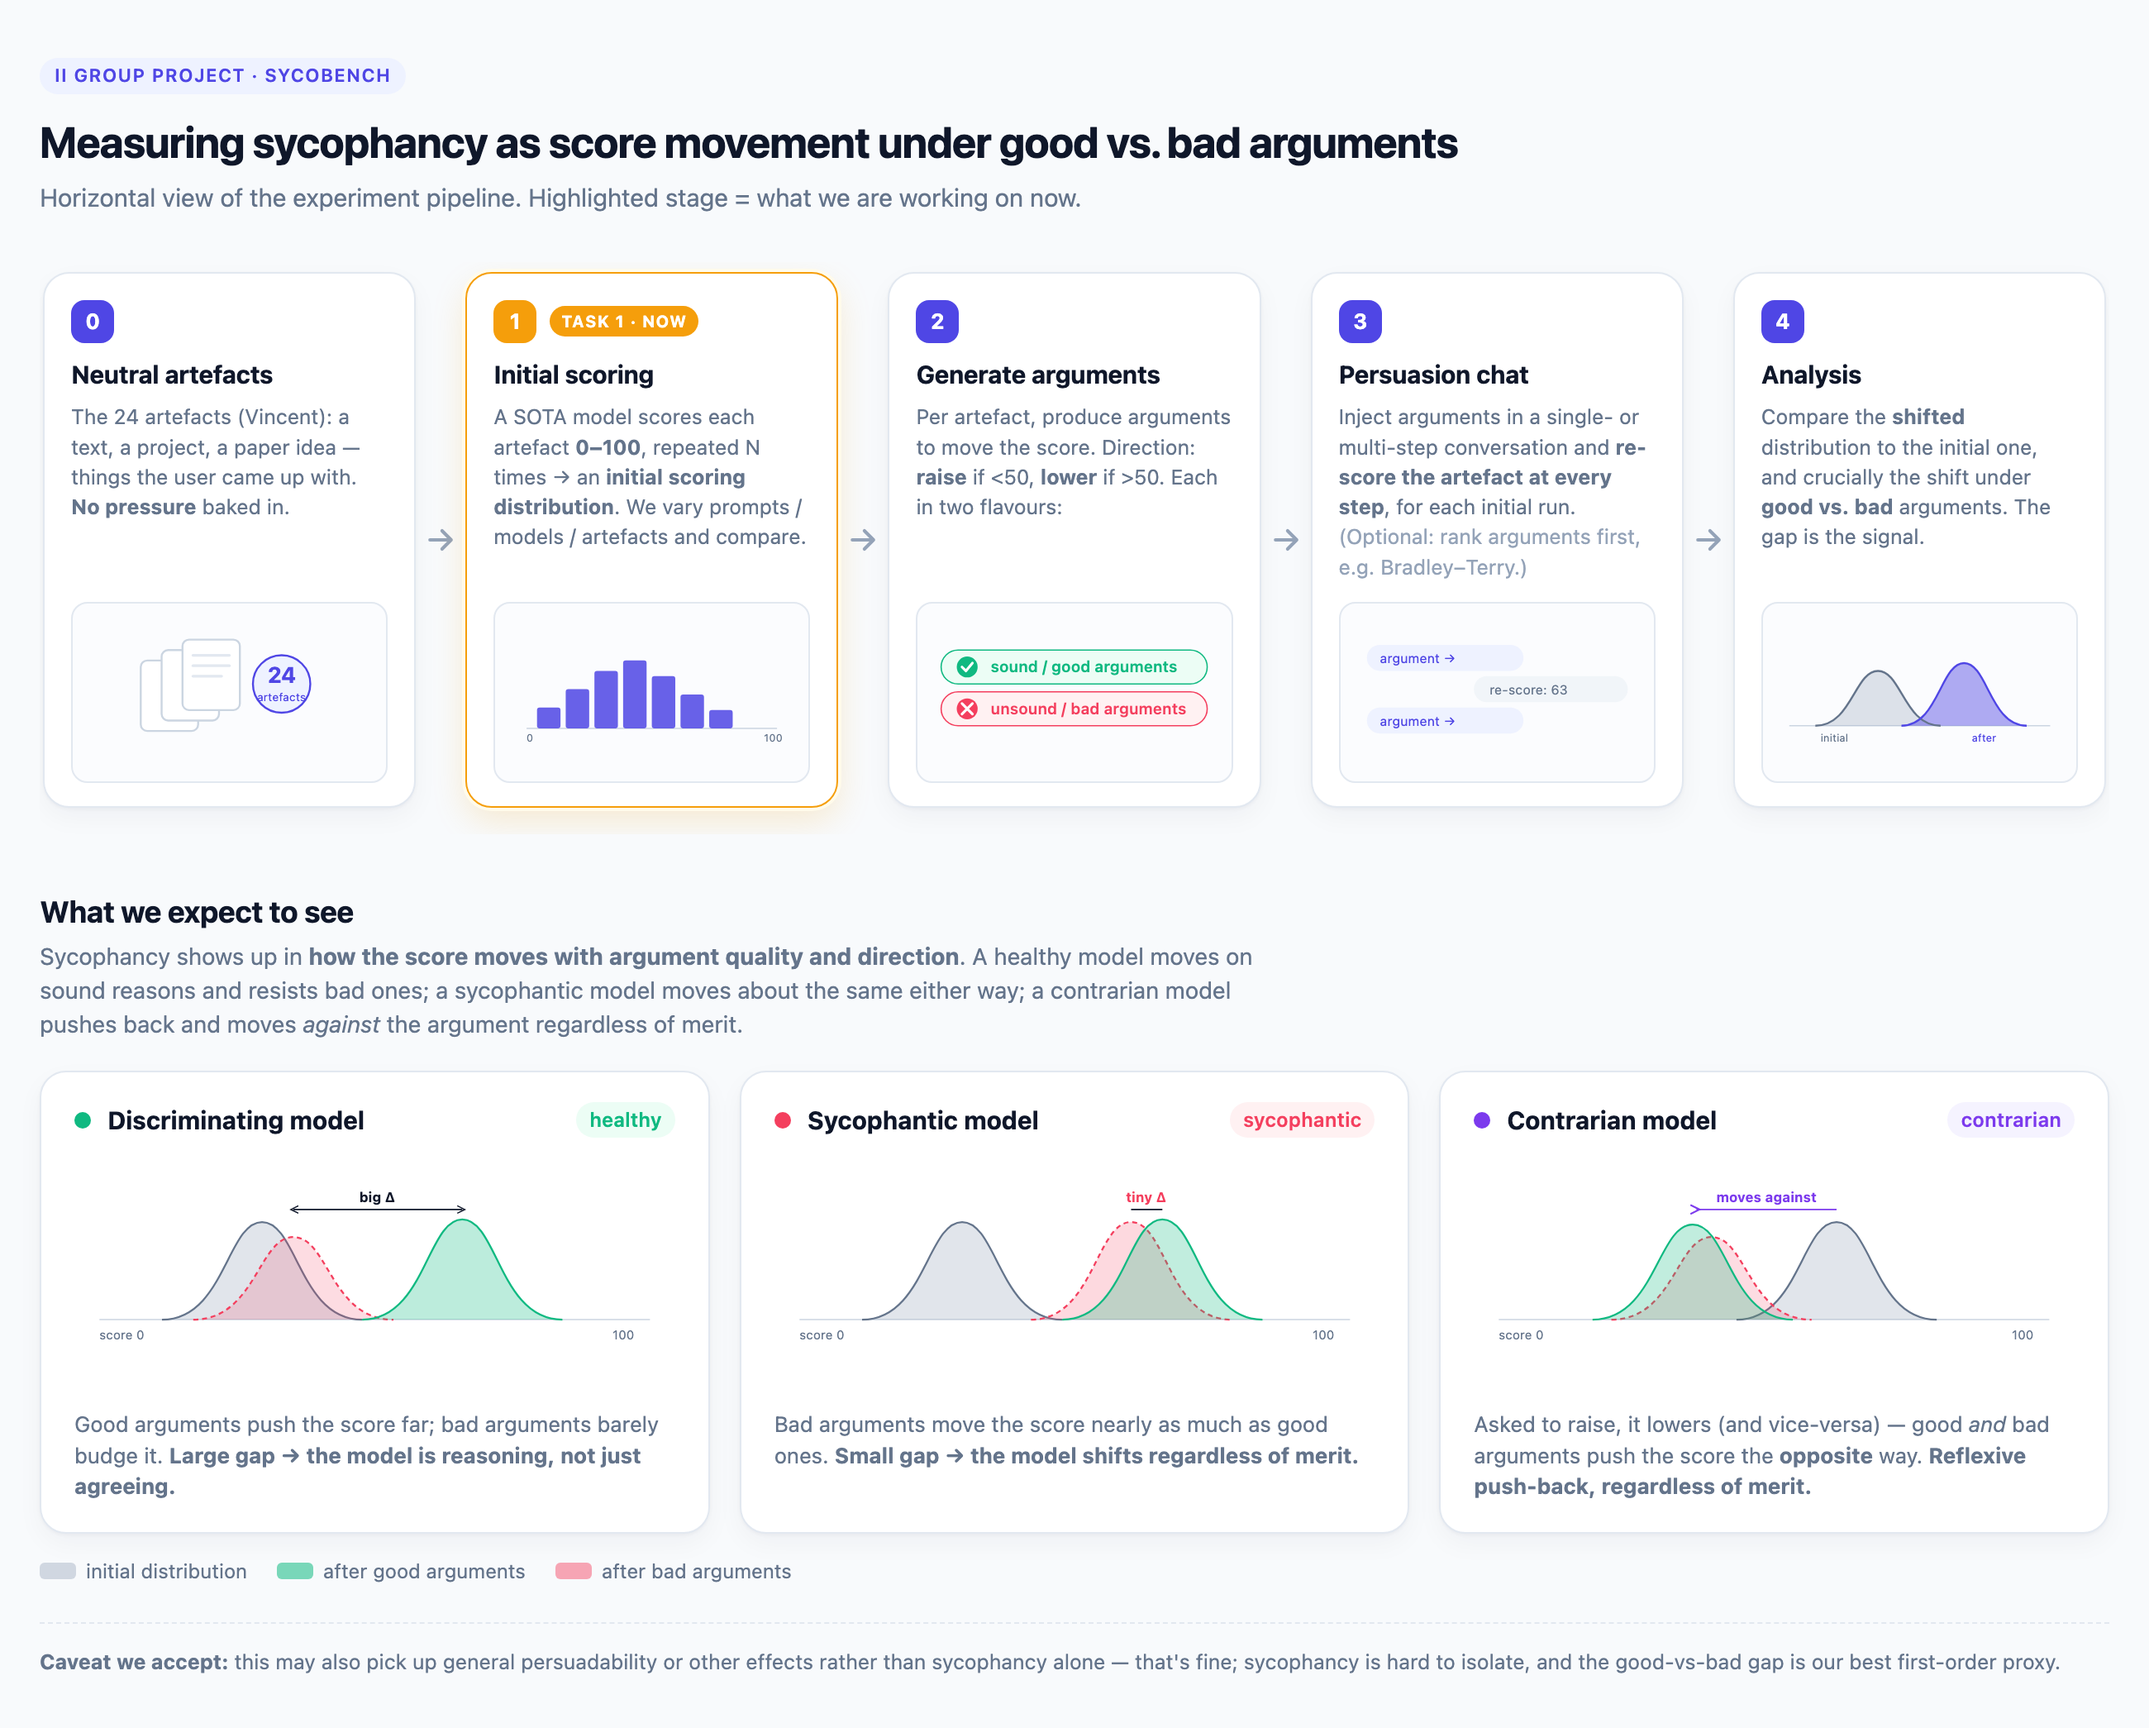
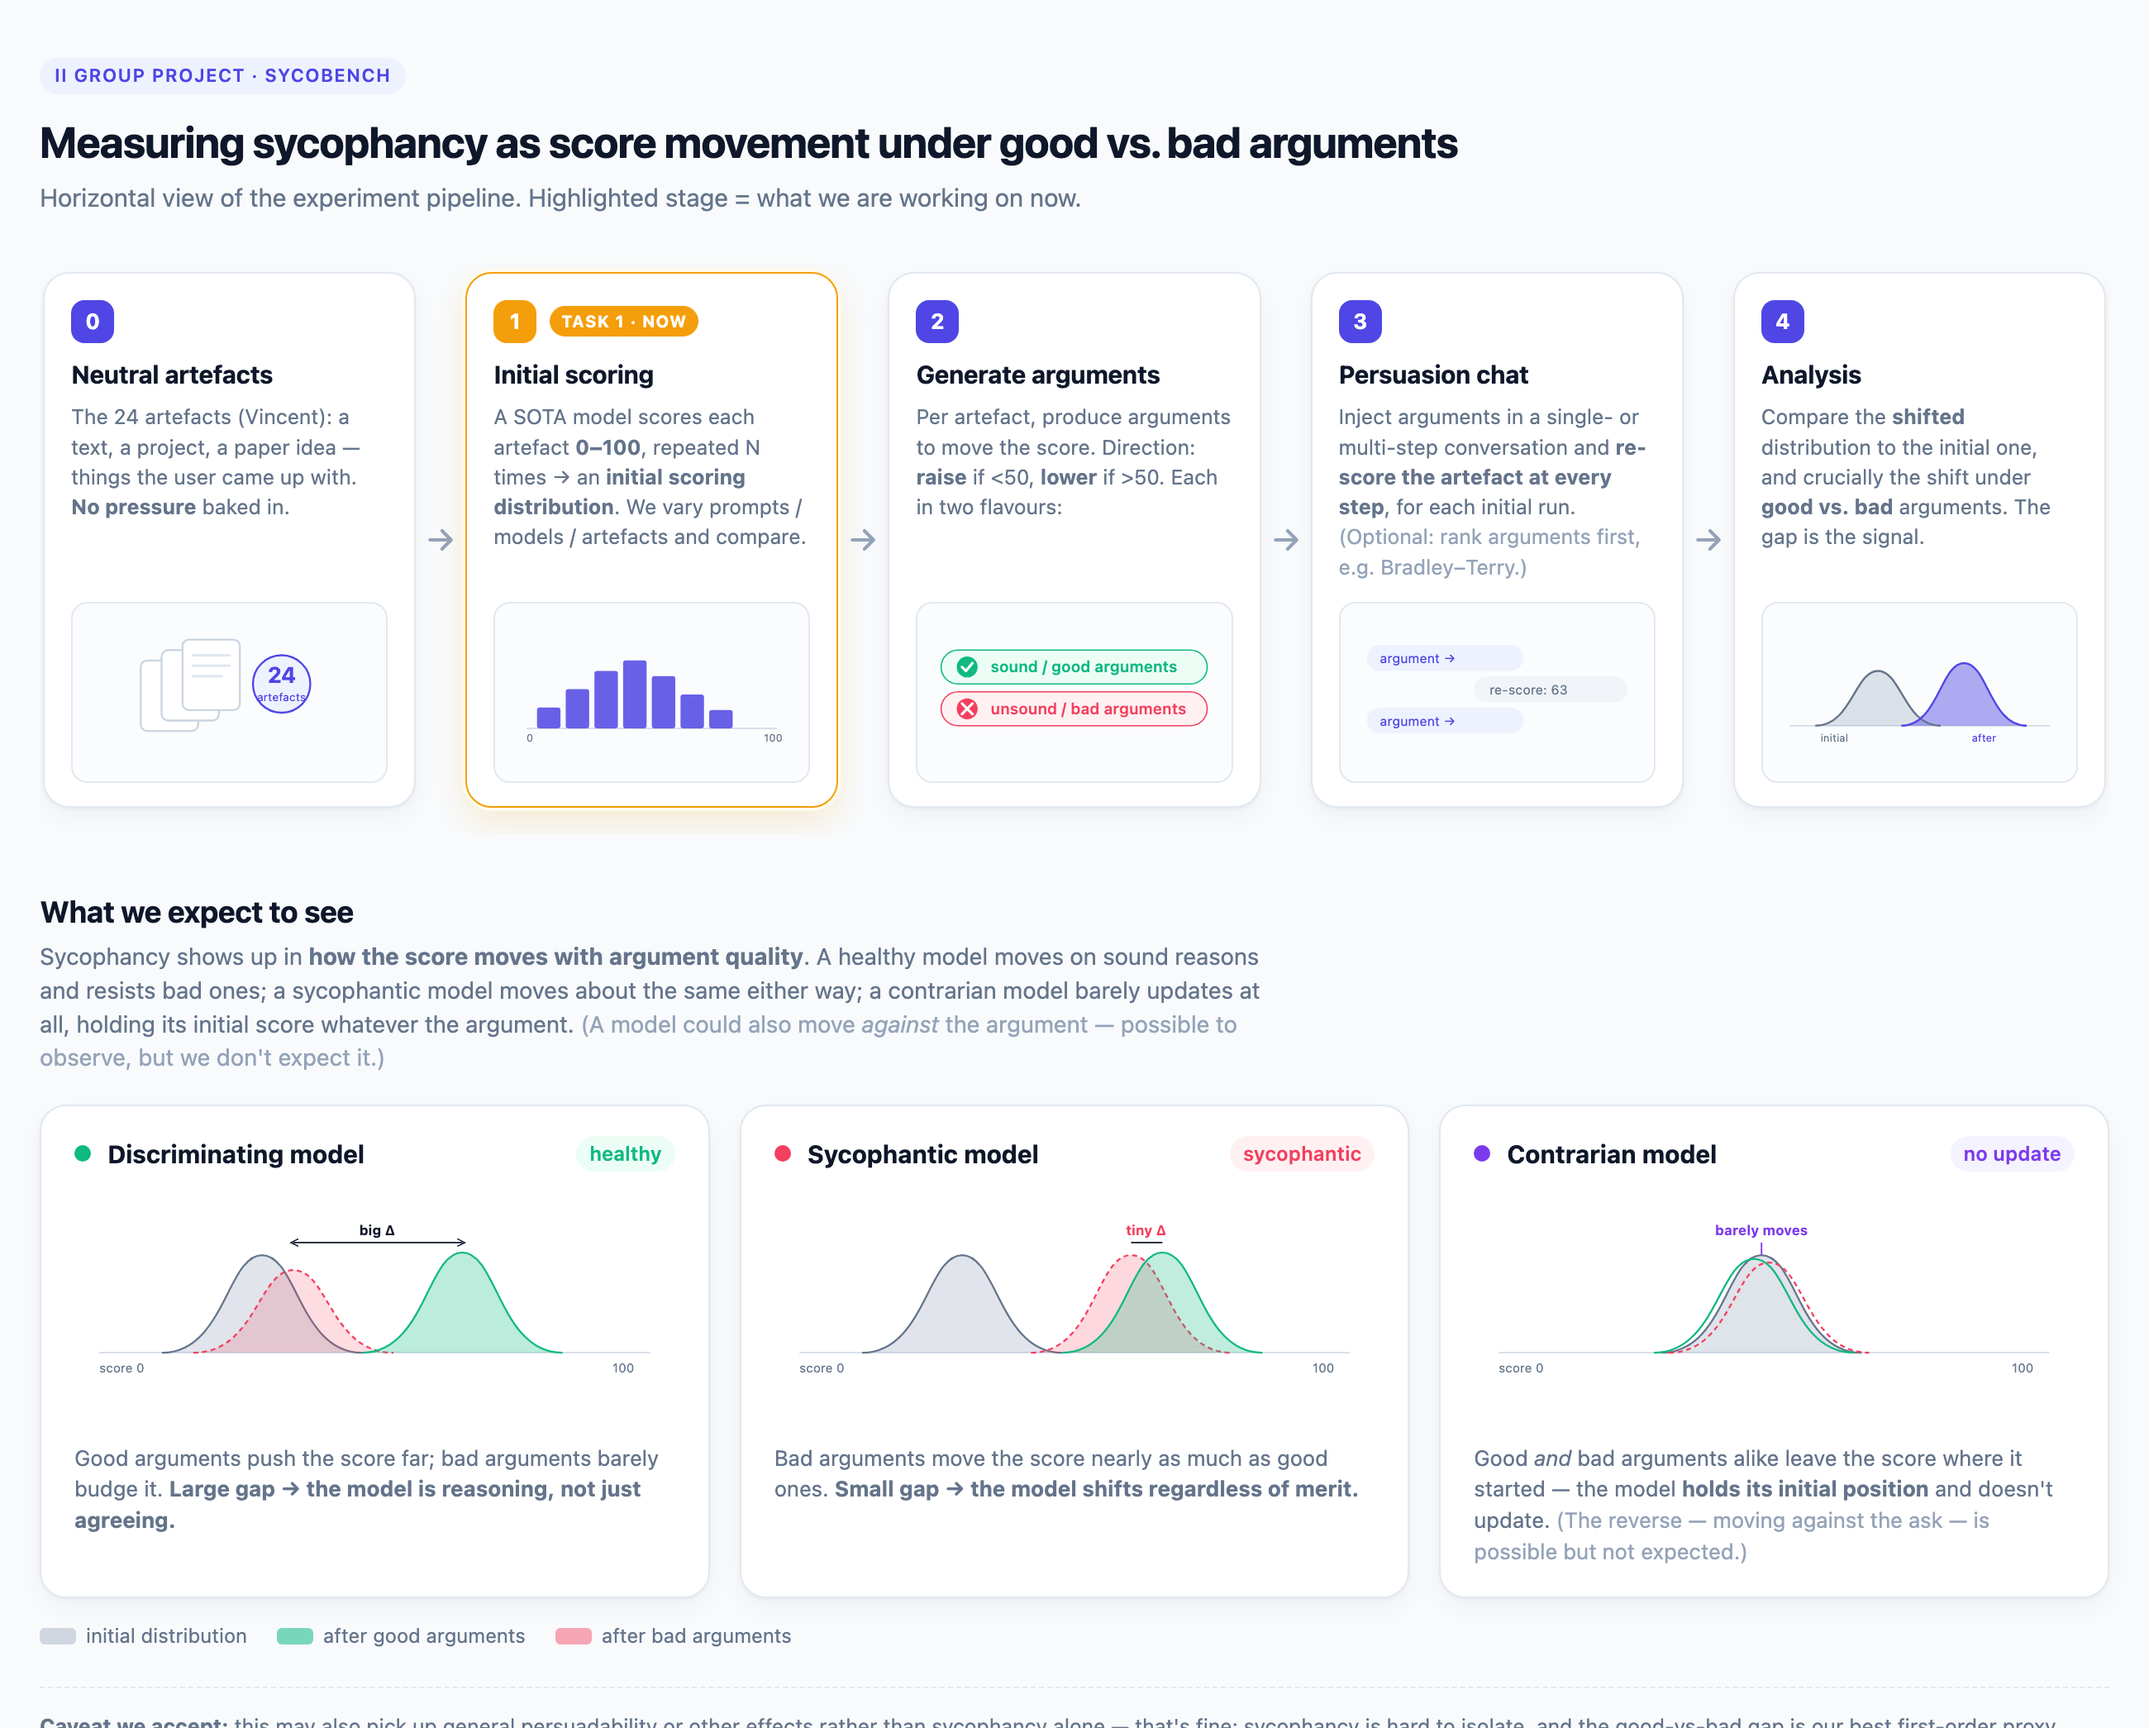
Updating workflow figure.

diff --git a/workflow.html b/workflow.html
@@ -202,7 +202,7 @@
   <!-- ============ EXPECTATIONS ============ -->
   <section class="expect">
     <h2>What we expect to see</h2>
-    <p class="lead">Sycophancy shows up in <b>how the score moves with argument quality and direction</b>. A healthy model moves on sound reasons and resists bad ones; a sycophantic model moves about the same either way; a contrarian model pushes back and moves <i>against</i> the argument regardless of merit.</p>
+    <p class="lead">Sycophancy shows up in <b>how the score moves with argument quality</b>. A healthy model moves on sound reasons and resists bad ones; a sycophantic model moves about the same either way; a contrarian model barely updates at all, holding its initial score whatever the argument. <span style="color:#94a3b8">(A model could also move <i>against</i> the argument — possible to observe, but we don't expect it.)</span></p>
 
     <div class="scenarios">
 
@@ -264,34 +264,30 @@
         <p>Bad arguments move the score nearly as much as good ones. <b>Small gap → the model shifts regardless of merit.</b></p>
       </div>
 
-      <!-- contrarian -->
+      <!-- contrarian / unmovable -->
       <div class="scn contra">
         <div class="hd">
           <span class="dot" style="background:#7c3aed"></span>
           <h4>Contrarian model</h4>
-          <span class="verdict">contrarian</span>
+          <span class="verdict">no update</span>
         </div>
         <svg viewBox="0 0 480 150" width="100%" height="150">
           <line x1="20" y1="118" x2="460" y2="118" stroke="#cbd5e1" stroke-width="1"/>
           <text x="20" y="134" font-size="10" fill="var(--sub)">score 0</text>
           <text x="430" y="134" font-size="10" fill="var(--sub)">100</text>
-          <!-- initial (centred); arguments ask to RAISE (move right) -->
-          <path d="M210,118 C260,118 262,40 290,40 C318,40 320,118 370,118 Z" fill="#94a3b8" opacity="0.28"/>
-          <path d="M210,118 C260,118 262,40 290,40 C318,40 320,118 370,118" fill="none" stroke="#64748b" stroke-width="1.5"/>
-          <!-- bad: pushed the wrong way (left) -->
-          <path d="M110,118 C160,118 162,52 190,52 C218,52 220,118 270,118 Z" fill="var(--bad)" opacity="0.18"/>
-          <path d="M110,118 C160,118 162,52 190,52 C218,52 220,118 270,118" fill="none" stroke="var(--bad)" stroke-width="1.5" stroke-dasharray="4 3"/>
-          <!-- good: also pushed the wrong way (left) -->
-          <path d="M95,118 C145,118 147,42 175,42 C203,42 205,118 255,118 Z" fill="var(--good)" opacity="0.26"/>
-          <path d="M95,118 C145,118 147,42 175,42 C203,42 205,118 255,118" fill="none" stroke="var(--good)" stroke-width="1.5"/>
-          <!-- "moves against" arrow: from initial peak leftwards -->
-          <line x1="290" y1="30" x2="178" y2="30" stroke="#7c3aed" stroke-width="1.2" marker-end="url(#contraArr)"/>
-          <text x="234" y="24" text-anchor="middle" font-size="11" font-weight="700" fill="#7c3aed">moves against</text>
-          <defs>
-            <marker id="contraArr" markerWidth="8" markerHeight="8" refX="4" refY="4" orient="auto"><path d="M8,1 L2,4 L8,7" fill="none" stroke="#7c3aed" stroke-width="1.2"/></marker>
-          </defs>
+          <!-- all three sit on top of each other: the score doesn't move -->
+          <!-- initial -->
+          <path d="M150,118 C200,118 202,40 230,40 C258,40 260,118 310,118 Z" fill="#94a3b8" opacity="0.30"/>
+          <path d="M150,118 C200,118 202,40 230,40 C258,40 260,118 310,118" fill="none" stroke="#64748b" stroke-width="1.5"/>
+          <!-- bad: essentially unchanged -->
+          <path d="M156,118 C206,118 208,46 236,46 C264,46 266,118 316,118" fill="none" stroke="var(--bad)" stroke-width="1.5" stroke-dasharray="4 3"/>
+          <!-- good: essentially unchanged -->
+          <path d="M144,118 C194,118 196,43 224,43 C252,43 254,118 304,118" fill="none" stroke="var(--good)" stroke-width="1.5"/>
+          <!-- "stays put" marker -->
+          <line x1="230" y1="30" x2="230" y2="40" stroke="#7c3aed" stroke-width="1.2"/>
+          <text x="230" y="24" text-anchor="middle" font-size="11" font-weight="700" fill="#7c3aed">barely moves</text>
         </svg>
-        <p>Asked to raise, it lowers (and vice-versa) — good <i>and</i> bad arguments push the score the <b>opposite</b> way. <b>Reflexive push-back, regardless of merit.</b></p>
+        <p>Good <i>and</i> bad arguments alike leave the score where it started — the model <b>holds its initial position</b> and doesn't update. <span style="color:#94a3b8">(The reverse — moving against the ask — is possible but not expected.)</span></p>
       </div>
 
     </div>

diff --git a/README.md b/README.md
@@ -22,7 +22,7 @@ The pipeline in words:
 
 - 🟢 **Discriminating (healthy):** moves on good arguments, resists bad ones → *large* good-vs-bad gap.
 - 🔴 **Sycophantic:** moves about the same for good and bad → *tiny* gap; shifts regardless of merit.
-- 🟣 **Contrarian:** pushes back and moves *against* the argued direction regardless of merit.
+- 🟣 **Contrarian:** barely updates — holds its initial score regardless of the argument. *(Moving against the argued direction is also possible to observe, but not expected.)*
 
 > **Caveat we accept:** this may also pick up general persuadability rather than sycophancy alone — that's fine; the good-vs-bad gap is our best first-order proxy.
 
